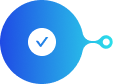
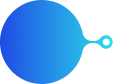
update.

Changed region(s): [[0.2389, 0.3333, 0.5044, 0.6667]]

diff --git a/lib/widgets/background_widget.dart b/lib/widgets/background_widget.dart
@@ -3,7 +3,8 @@ import 'package:flutter/material.dart';
 import 'package:flutter_svg/flutter_svg.dart';
 
 import '../resourse/app_drawable.dart';
-import 'road_path.dart';
+import 'point_widget.dart';
+import 'package:path_drawing/path_drawing.dart';
 
 class BackgroundWidget extends StatelessWidget {
   @override
@@ -14,29 +15,48 @@ class BackgroundWidget extends StatelessWidget {
         Image.asset(AppDrawable.bg,
             width: MediaQuery.of(context).size.width, fit: BoxFit.fitWidth),
         Positioned(
-            child: Padding(
-              padding: const EdgeInsets.only(right: 42),
-              child: RoadPath(width: 127, step: 2,),
+            child: SizedBox(
+              width: 127,
+              child: SvgPicture.asset(AppDrawable.img_road),
             ),
             bottom: 68),
         Padding(
-          padding: const EdgeInsets.only(bottom: 39),
+          padding: const EdgeInsets.only(bottom: 39, left: 42),
           child: SvgPicture.asset(AppDrawable.btn_start),
         ),
         Positioned(
           child: Padding(
-            padding: const EdgeInsets.only(right: 220),
-            child: Image.asset(AppDrawable.ic_point_blue),
+            padding: const EdgeInsets.only(right: 176),
+            child: PointWidget(
+                icon: AppDrawable.ic_point_blue,
+                checked: AppDrawable.ic_point_blue_checked),
           ),
-          bottom: 160,
+          bottom: 164,
+        ),
+        Positioned(
+          child: PointWidget(
+            icon: AppDrawable.ic_point_green,
+            checked: AppDrawable.ic_point_green_checked,
+          ),
+          bottom: 228,
         ),
         Positioned(
           child: Padding(
-            padding: const EdgeInsets.only(right: 42),
-            child: Image.asset(AppDrawable.ic_point_green),
+            padding: const EdgeInsets.only(left: 176),
+            child: PointWidget(
+              icon: AppDrawable.ic_point_violet,
+              checked: AppDrawable.ic_point_violet_checked,
+            ),
           ),
-          bottom: 226,
-        )
+          bottom: 266,
+        ),
+        Positioned(
+          child: PointWidget(
+            icon: AppDrawable.ic_point_orange,
+            checked: AppDrawable.ic_point_orange_checked,
+          ),
+          bottom: 326,
+        ),
       ],
     );
   }

diff --git a/lib/demo_page.dart b/lib/demo_page.dart
@@ -8,12 +8,22 @@ class DemoPage extends StatefulWidget {
   State<StatefulWidget> createState() => _DemoPage();
 }
 
-class _DemoPage extends State<DemoPage> {
+class _DemoPage extends State<DemoPage> with SingleTickerProviderStateMixin {
   final scrollController = ScrollController();
+  late AnimationController _controller;
+  late Animation _animation;
 
   @override
   void initState() {
     super.initState();
+
+    _controller = AnimationController(vsync: this,duration: Duration(milliseconds: 5000));
+    _animation = Tween(begin: 0.0,end: 1.0).animate(_controller)
+      ..addListener((){
+        setState(() {
+        });
+      });
+    _controller.forward();
 
     WidgetsBinding.instance?.addPostFrameCallback((_) {
       scrollController.jumpTo(scrollController.position.maxScrollExtent);

diff --git a/lib/resourse/app_drawable.dart b/lib/resourse/app_drawable.dart
@@ -5,6 +5,13 @@ class AppDrawable {
   static const bg = '$path/bg.png';
   static const btn_start = '$path/btn_start.svg';
   static const ic_checked = '$path/ic_checked.svg';
+  static const ic_point_blue_checked = '$path/ic_point_blue_checked.png';
   static const ic_point_blue = '$path/ic_point_blue.png';
+  static const ic_point_green_checked = '$path/ic_point_green_checked.png';
   static const ic_point_green = '$path/ic_point_green.png';
+  static const ic_point_violet_checked = '$path/ic_point_violet_checked.png';
+  static const ic_point_violet = '$path/ic_point_violet.png';
+  static const ic_point_orange_checked = '$path/ic_point_orange_checked.png';
+  static const ic_point_orange = '$path/ic_point_orange.png';
+  static const img_road = '$path/img_road.svg';
 }

diff --git a/lib/widgets/point_widget.dart b/lib/widgets/point_widget.dart
@@ -1,12 +1,15 @@
 import 'package:flutter/material.dart';
 
 class PointWidget extends StatelessWidget {
+  final String icon;
+  final String checked;
+  final bool isChecked;
 
+  PointWidget(
+      {required this.icon, required this.checked, this.isChecked = false});
 
   @override
   Widget build(BuildContext context) {
-    // TODO: implement build
-    throw UnimplementedError();
+    return Image.asset(isChecked ? checked : icon);
   }
-
 }
